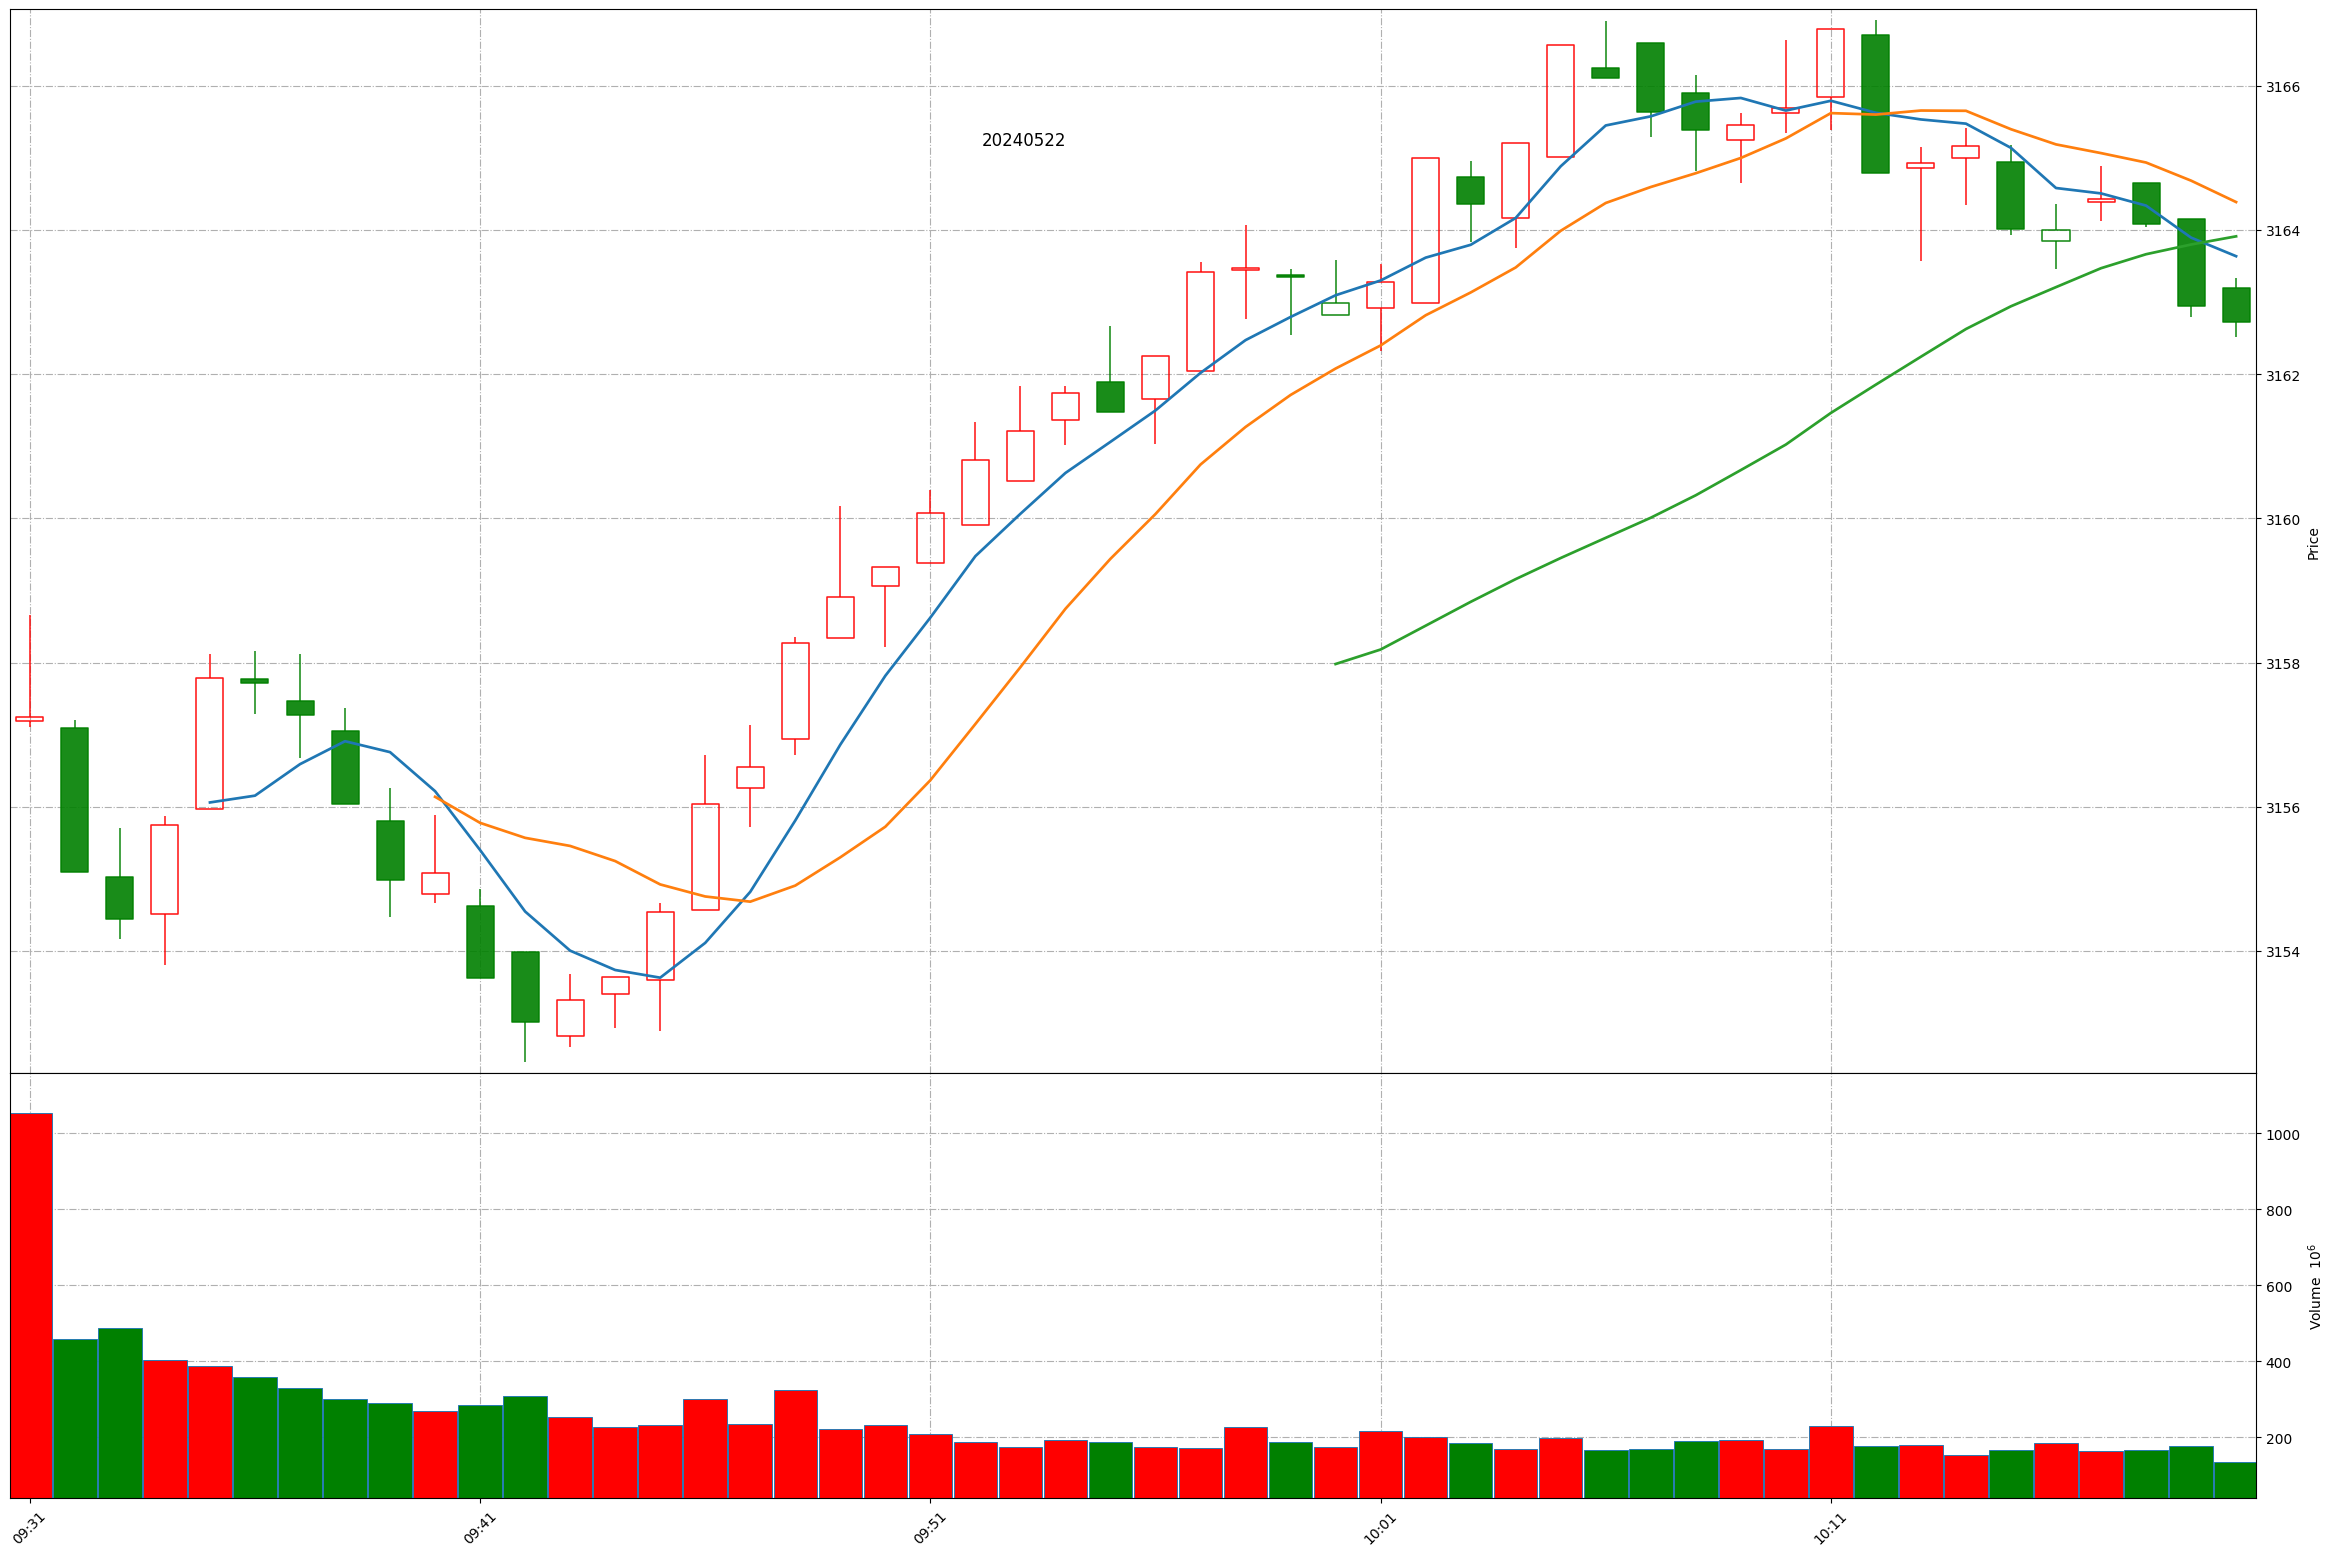
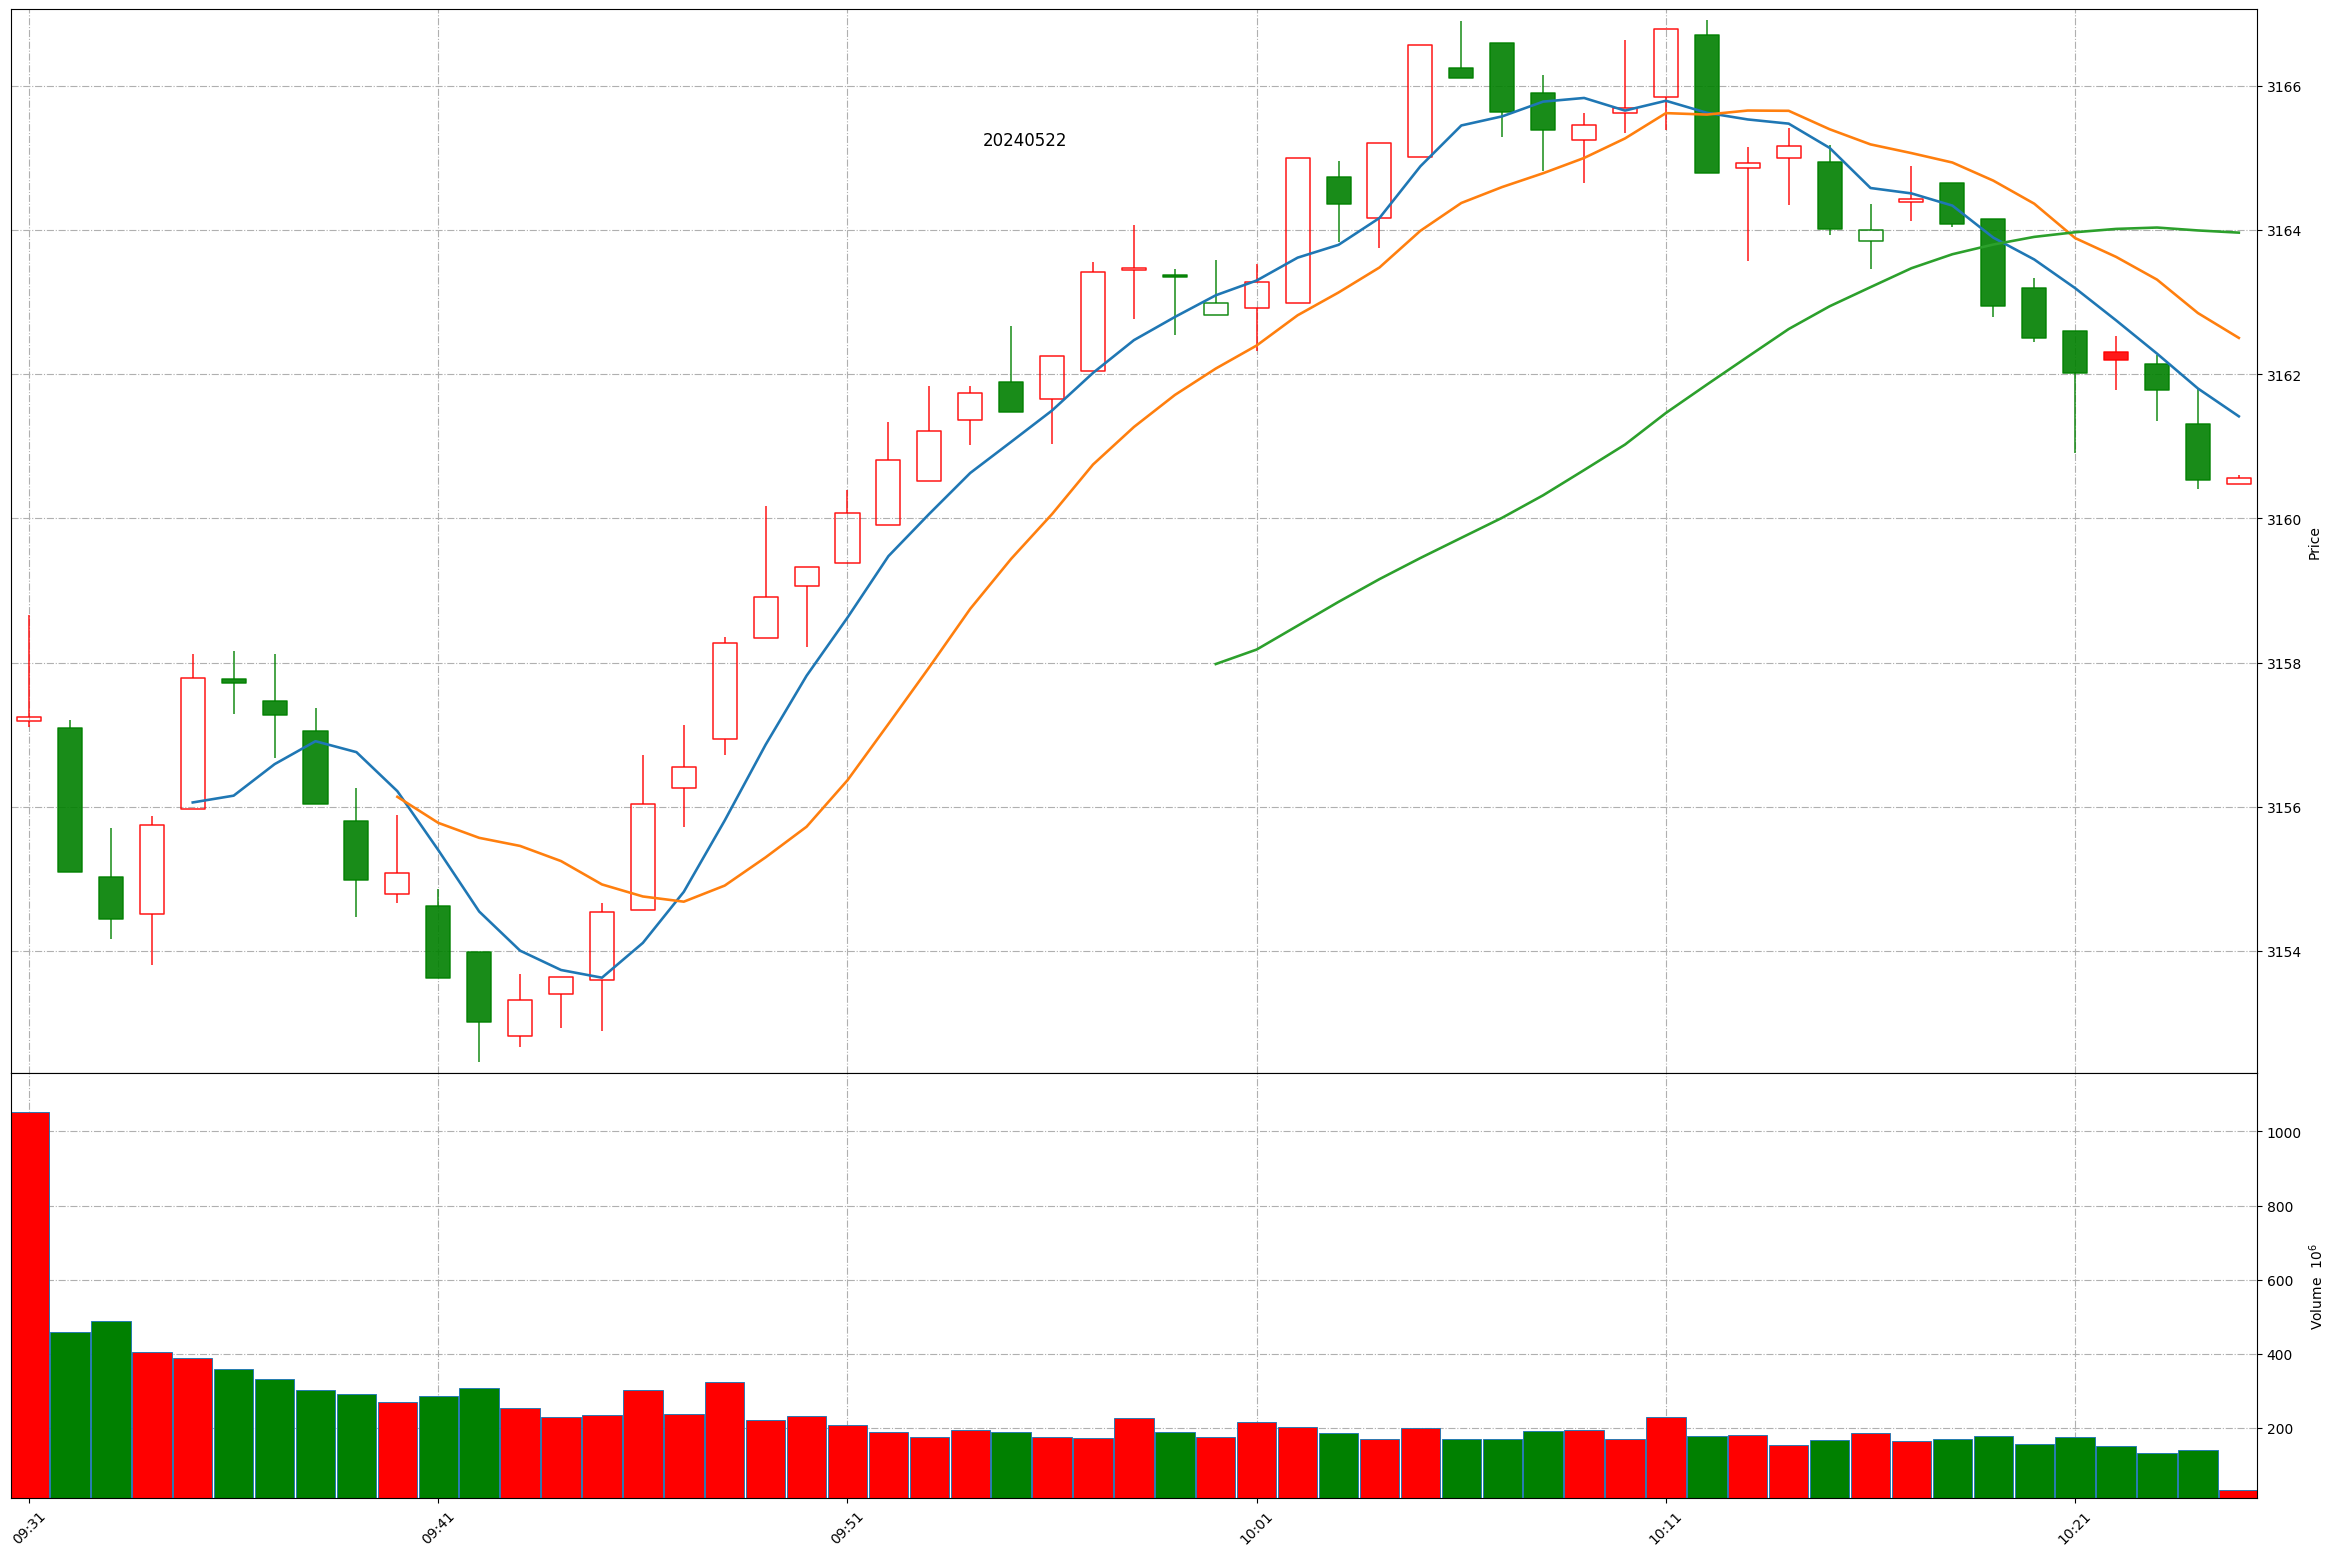
Github action update at 2024-05-22 10:24:26.

diff --git a/README.md b/README.md
@@ -1,11 +1,11 @@
 
 # Daily-A-share-market-quotes 每日 A 股指数（5min 更新）- 20240522
 
-### 上证指数 20240522 10:20
+### 上证指数 20240522 10:24
 ![](./fig/2024/5/20240522-sh000001.png)
 
-### 深证成指 20240522 10:20
+### 深证成指 20240522 10:24
 ![](./fig/2024/5/20240522-sz399001.png)
 
-### 北证50 20240522 10:20
+### 北证50 20240522 10:24
 ![](./fig/2024/5/20240522-bj899050.png)
